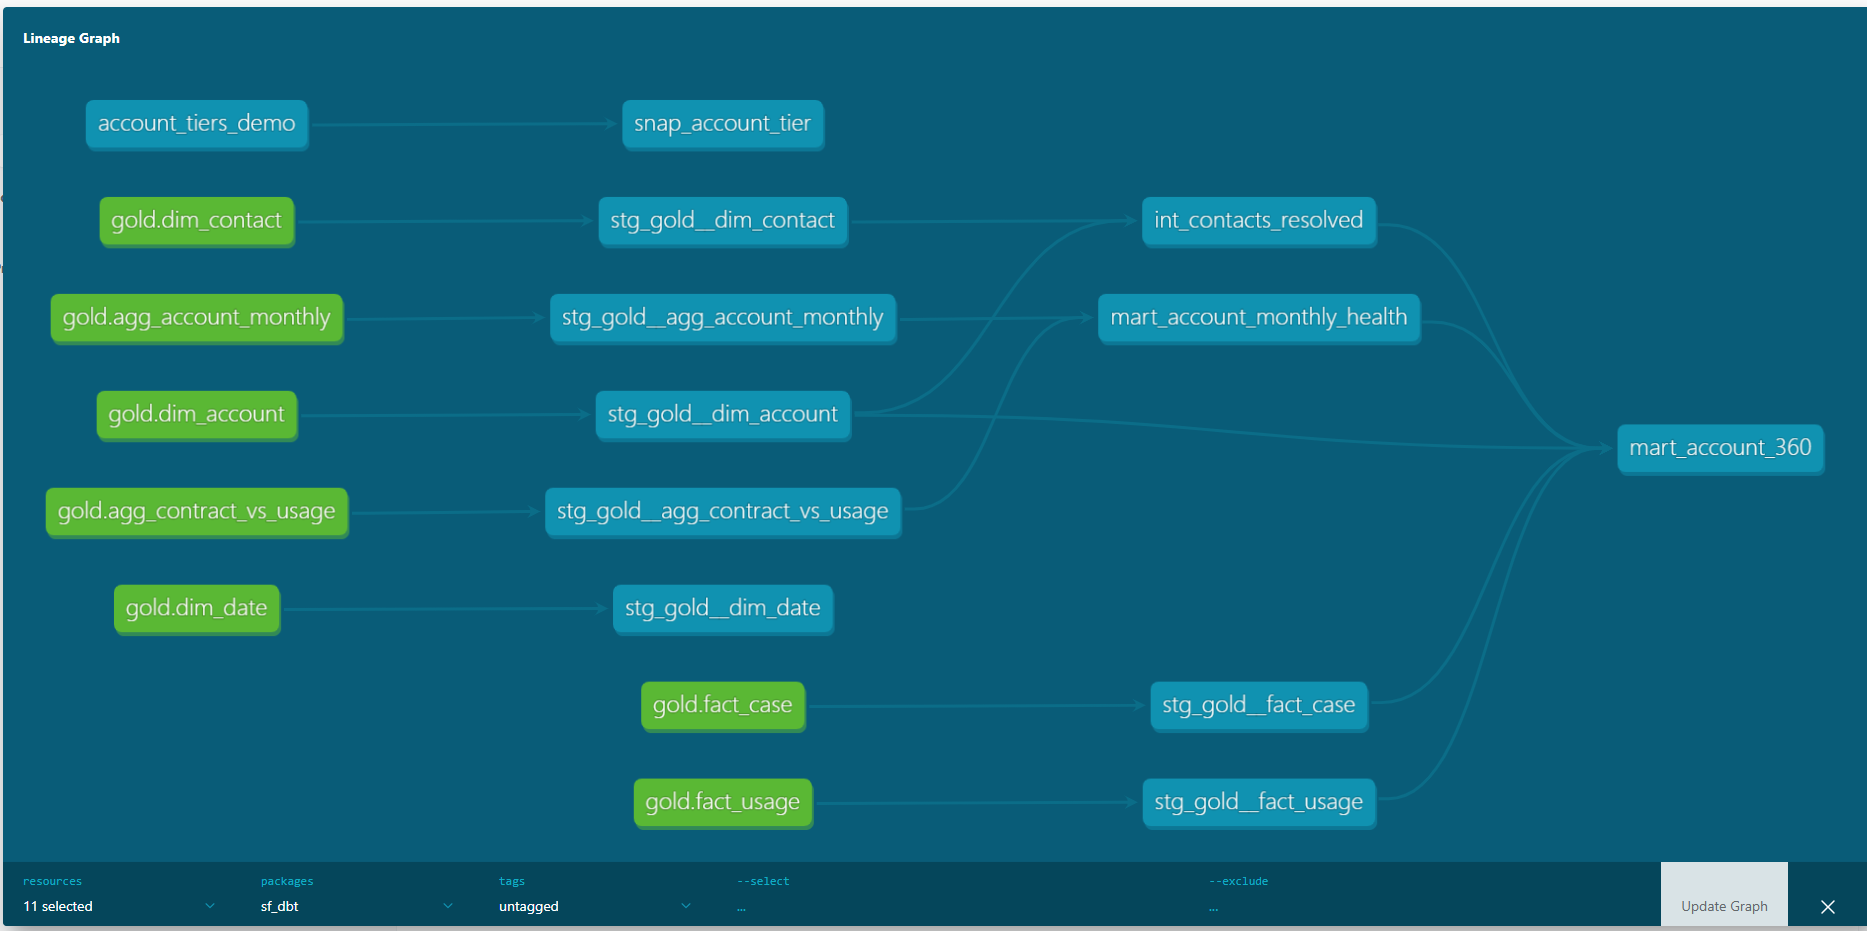
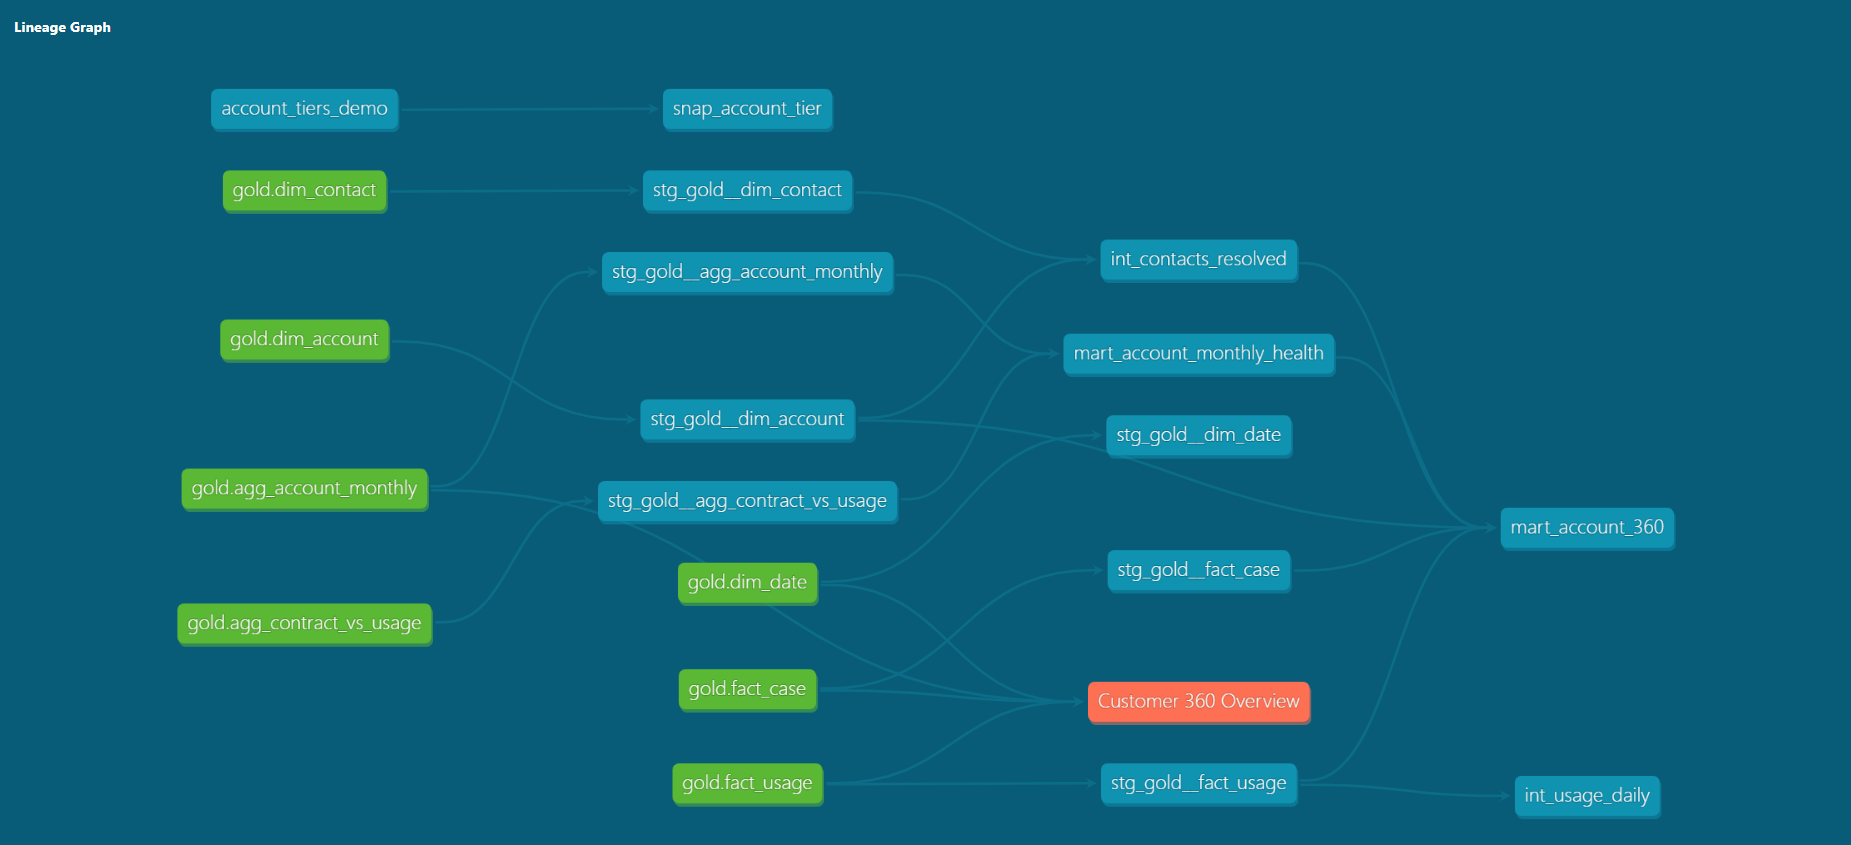
Update READMEs: dbt layer additions, ADF trigger, lineage graph

diff --git a/sf_dbt/README.md b/sf_dbt/README.md
@@ -1,22 +1,23 @@
 # sf_dbt
 
-A dbt Core project over the Gold layer of this repository. It reads the seven Gold tables and builds staging views, one intermediate model and two marts on top of them, with tests on keys, relationships, allowed values and reconciliation. It never writes to Gold.
+A dbt Core project over the Gold layer of this repository. It reads the seven Gold tables and builds staging views, two intermediate models (one incremental) and two marts on top of them, with tests on keys, relationships, allowed values and reconciliation. It never writes to Gold.
 
-![Lineage: 7 Gold sources, staging views, an intermediate model and two marts](../docs/dbt/lineage-graph.png)
+![Lineage: 7 Gold sources, staging views, two intermediate models, two marts and the dashboard exposure](../docs/dbt/lineage-graph.png)
 
-*Lineage with tests hidden: 7 Gold sources feed 7 staging views, then an intermediate model and two marts. The seed and snapshot at the top are a separate demo on controlled data.*
+*Lineage with tests hidden: 7 Gold sources feed 7 staging views, then two intermediate models and two marts. The dashboard exposure (orange) reads Gold directly. The seed and snapshot at the top are a separate demo on controlled data.*
 
 ## Status
-The dbt layer is complete: staging, one intermediate model, two marts, reusable macros, a demo snapshot, logic tests and SCD2 scenario checks.
+The dbt layer is complete: staging, intermediate models (one of them an incremental model), a unit test, enforced contracts, two marts, reusable macros, a demo snapshot, logic tests and SCD2 scenario checks.
 
 ## What is in it
 - 7 sources (the Gold tables) and 7 staging views
-- 1 intermediate model, `int_contacts_resolved`, which maps orphan contacts to the UNKNOWN account and flags them
-- 2 marts: `mart_account_monthly_health` (one row per account and month) and `mart_account_360` (one row per account)
+- 2 intermediate models: `int_contacts_resolved`, which maps orphan contacts to the UNKNOWN account and flags them, and `int_usage_daily`, incremental (merge on a built key, 3-day lookback), reconciled to `fact_usage`
+- 2 marts: `mart_account_monthly_health` (one row per account and month) and `mart_account_360` (one row per account) with enforced contracts and descriptions persisted to Unity Catalog
+- 1 exposure documenting the Customer 360 dashboard (it reads Gold directly)
 - Macros: `safe_divide` (with a logic test), `write_probe` and `drop_probe` for permission tests, and four CI macros: `guard_ci_target`, `list_schema_relations`, `clean_target_schema` and `assert_schema_empty`
 - 1 seed and 1 snapshot (SCD Type 2), demonstrated on controlled demo data because the Gold data does not change; four manual scenarios check its history, see [scenarios/scd2](scenarios/scd2/README.md)
-- 50 data tests: 29 on staging, 5 on the intermediate model, 8 on the first mart, 7 on the second mart, 1 on the macro
-- Last full run: 61 passed, 1 warning, 0 errors (10 models, 50 tests, 1 seed, 1 snapshot), also run on every pull request into staging.
+- 58 data tests and 1 unit test
+- Last full run: 71 passed, 1 warning, 0 errors (11 models, 58 data tests, 1 unit test, 1 seed, 1 snapshot), also run on every pull request into staging.
 
 ## Identity and access
 dbt runs as its own Databricks service principal, not as a person and not with the shared token. It can read the Gold schema and can create and write tables in its own schemas (`dbt_dev` and `dbt_staging`). No credentials are stored in this repository.
@@ -79,15 +80,18 @@ Each run starts and ends with an empty `dbt_staging` schema (`clean_target_schem
 Four manual scenarios (initial load, row update, row addition, mixed) run against `snap_account_tier` in the staging catalog, with expected row counts and annotated screenshots of the snapshot table after each step. See [scenarios/scd2/README.md](scenarios/scd2/README.md).
 
 ## Design choices
-- **dbt consumes Gold and does not rebuild it.** The pipeline owns ingestion through Gold. Tests guard keys, relationships and allowed values, and mart_account_360 reconciles to its sources. They do not verify that business definitions such as the utilisation bands are right.
+- **dbt consumes Gold and does not rebuild it.** The pipeline owns ingestion through Gold. Tests guard keys, relationships and allowed values, `mart_account_360 reconciles` to its sources, and a unit test pins the `commit_status` bands. None of them verify that the thresholds are the right business rules.
 - **Staging models are views with explicit column lists.** A new Gold column does not flow through silently, and each model documents what dbt depends on.
-- **The aggregate tables get a built key.** `account_month_key` joins account and month so one unique test covers both columns, with not_null tests on the two source columns.
+- **The aggregate tables get a built key.** `account_month_key` joins account and month so one unique test covers both columns, with `not_null` tests on the two source columns.
 - **Separate write schema.** dbt writes only to its own schemas (`dbt_dev` locally, `dbt_staging` in CI), so a bad run cannot overwrite pipeline output.
 - **Marts use `ref()`,** so lineage runs source, staging, intermediate, marts.
 - **`mart_account_360` aggregates contacts, cases and usage to account grain before joining,** so the joins cannot fan out. A test reconciles its totals to `dim_account`, `fact_usage`, `fact_case` and `int_contacts_resolved`.
 - **`commit_status` thresholds are project variables** (`util_under_pct`, `util_over_pct`). They are illustrative, not business rules.
 - **Month-over-month change is null when the previous month is missing.** The data covers three months (July to September 2026), so the rolling average spans at most three points.
 - **The snapshot uses the timestamp strategy,** so a change only registers if `updated_at` moves forward.
+- **One incremental model.** `int_usage_daily` merges on a built key with a 3-day lookback. It is reconciled to `fact_usage` and was checked by deleting the latest day and rebuilding.
+- **Contracts on the marts.** Every column is declared with its type, so a change in a mart's shape fails the build.
+- **Bands apply to the rounded value.** Gold rounds `utilisation_pct` to one decimal, so 79.96 counts as `on_track`. A unit test pins this.
 
 ## Known issues
 - 20 contacts reference 12 account IDs that are not in `dim_account`. `int_contacts_resolved` maps them to UNKNOWN and flags them. The missing accounts are 12 of the 13 Developer Edition sample accounts that fail the `customer_ref` rule and sit in `silver.account_quarantine`. The warning on `stg_gold__dim_contact` stays to document the upstream difference, and the pipeline fix is on the backlog.
@@ -97,3 +101,4 @@ Four manual scenarios (initial load, row update, row addition, mixed) run agains
 - The service principal, the `dbt_dev` and `dbt_staging` schemas and the warehouse permission were created by hand, not in Terraform.
 - The snapshot demo cannot be reproduced from a fresh clone, because the committed seed is the changed version. To replay it, check out the "add demo seed and tier snapshot" commit, run dbt seed and dbt snapshot, then check out the later commit and run them again.
 - `stg_gold__dim_date` has no downstream model yet.
+- The incremental model is verified by reconciliation and by delete-and-rebuild, but the data is static, so the arrival of new data is not tested.

diff --git a/README.md b/README.md
@@ -6,7 +6,7 @@ A multi-source customer 360 lakehouse on Azure and Databricks. Azure Data Factor
 
 ## What it does
 
-- **Three sources, one landing zone:** ADF copies Salesforce Account, Contact and Case objects, a usage CSV from Blob Storage, and an `account_contracts` table from Azure SQL into the landing container.
+- **Three sources, one landing zone:** ADF copies Salesforce Account, Contact and Case objects, a usage CSV from Blob Storage, and an `account_contracts` table from Azure SQL into the landing container. A master pipeline then triggers the Databricks job once all the copies finish.
 - **Medallion layers:** Bronze ingests the landed files with Auto Loader. Silver applies per-entity quality rules, sends failing rows to quarantine tables, and keeps current state with auto CDC (SCD Type 1). Gold builds dimensions, facts and aggregates. Bronze and Silver tables are defined from registries (`registry.py`), so adding an entity is a registry entry.
 - **Contract enrichment:** Azure SQL contract data adds a `contract_tier` to the account dimension and feeds a separate committed-versus-actual usage table.
 - **Dashboard:** a Databricks AI/BI dashboard, deployed through DABs and parameterised per environment.
@@ -19,7 +19,9 @@ flowchart LR
   B[Azure Blob<br/>usage CSV] --> D
   C[Azure SQL<br/>account_contracts] --> D
   D --> E[(ADLS Gen2 landing)]
+  D -. triggers .-> K[Databricks job]
   E --> F[LDP Bronze] --> G[LDP Silver] --> H[LDP Gold]
+  K -. runs .-> F  
   H --> I[AI/BI dashboard]
   H --> J[dbt staging, intermediate and marts]
 ```
@@ -56,7 +58,7 @@ Work moves `develop` → `staging` → `main`. The bundle has `dev`, `staging` a
 | Event | Gate | What runs |
 |---|---|---|
 | Push to `develop` | Unit tests | Transform and registry tests |
-| Pull request into `staging` | Integration test and `dbt-build` | Gold row counts and revenue totals reconcile with Silver; `dbt build` runs the models, seed, snapshot and 50 data tests in an isolated schema |
+| Pull request into `staging` | Integration test and `dbt-build` | Gold row counts and revenue totals reconcile with Silver; `dbt build` runs the models, seed, snapshot, 58 data tests and 1 unit test in an isolated schema |
 | Pull request into `main` | End-to-end test | The Gold tables behind the dashboard's headline numbers match known values (300 accounts, 600 cases, 3,721,662.94 revenue) |
 
 Rulesets (exported in `.github/rulesets/`) require pull requests, merge commits only and the integration and `dbt-build` checks on `staging` and the e2e check on `main`, with no bypass actors. Direct pushes to those branches are rejected, including for the owner. `develop` only blocks deletion and force-pushes, because ADF Studio commits to it directly.
@@ -84,7 +86,7 @@ The dashboard shows revenue, cases opened and escalated, and account counts, wit
 
 ## dbt layer
 
-A dbt Core project (`sf_dbt/`) consumes the Gold layer and adds staging views, an intermediate model, two marts, reusable macros and a demo snapshot. It has 10 models and 50 tests, runs as its own least-privilege service principal that can read Gold and write only to its own schema (Gold write denial tested), and has one documented warning(see Trade-offs and known gaps). See [sf_dbt/README.md](sf_dbt/README.md).
+A dbt Core project (`sf_dbt/`) consumes the Gold layer and adds staging views, intermediate models (including an incremental usage model), two marts with enforced contracts, reusable macros, a demo snapshot and a dashboard exposure. It has 11 models, 58 data tests and 1 unit test, descriptions are persisted to Unity Catalog, and it runs as its own least-privilege service principal that can read Gold and write only to its own schema (Gold write denial tested). It has one documented warning (see Trade-offs and known gaps). See [sf_dbt/README.md](sf_dbt/README.md).
 
 ![dbt lineage](docs/dbt/lineage-graph.png)
 
@@ -113,10 +115,9 @@ A dbt Core project (`sf_dbt/`) consumes the Gold layer and adds staging views, a
 **Known gaps**
 - The Network Security Perimeter is in learning mode, and the Key Vault, the dbt service principal's grants and its schemas were created by hand, not in Terraform.
 - Contracts are SCD Type 1 in the pipeline. SCD Type 2 is shown only on demo data (four manual scenarios, not in CI), and incremental loads of changed contracts are untested.
-- ADF copies to landing, but triggering the Databricks pipeline from ADF is planned.
 - Revenue band is `Unknown` for every account because the generator sets no annual revenue.
-- 13 Developer Edition sample accounts fail the `customer_ref` rule and sit in quarantine. 20 contacts reference 12 of them, so `dim_contact` keeps their raw account ID while the fact tables map them to UNKNOWN. `sf_dbt` flags and maps them, and the pipeline fix is planned.
-- Twenty-six cases also map to UNKNOWN, probably from the same sample records, not yet confirmed.
+- 13 Developer Edition sample accounts fail the `customer_ref` rule and sit in quarantine. 20 contacts reference 12 of them, so `dim_contact` keeps their raw account ID while the fact tables map them to UNKNOWN. `sf_dbt` flags and maps them (its relationships test warns on the 20 orphan contacts), and the pipeline fix is planned.
+- 26 cases also map to UNKNOWN, probably from the same sample records, not yet confirmed.
 
 ## Data and trademarks
 
